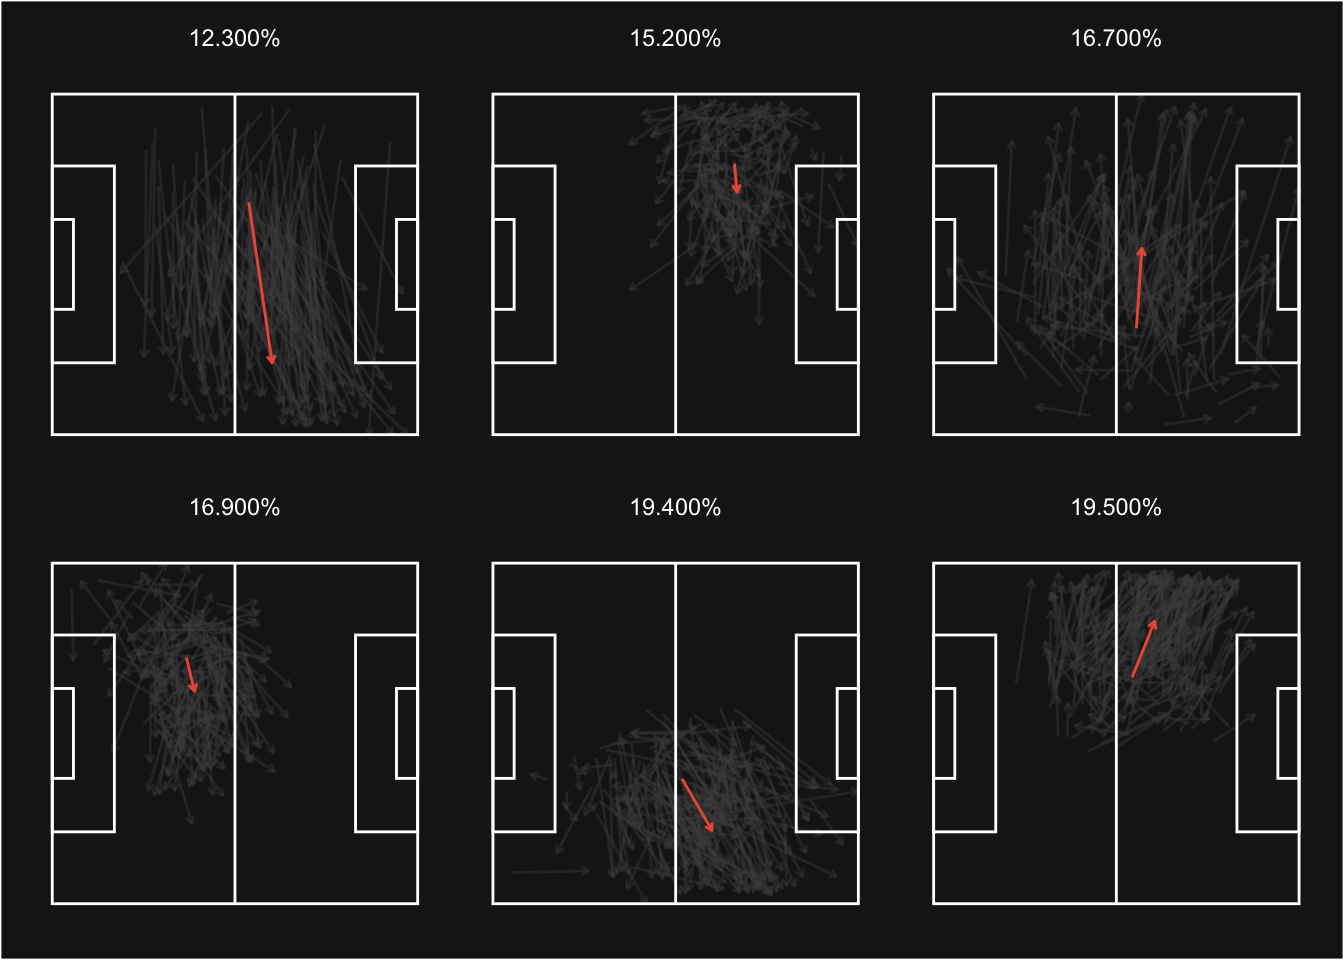
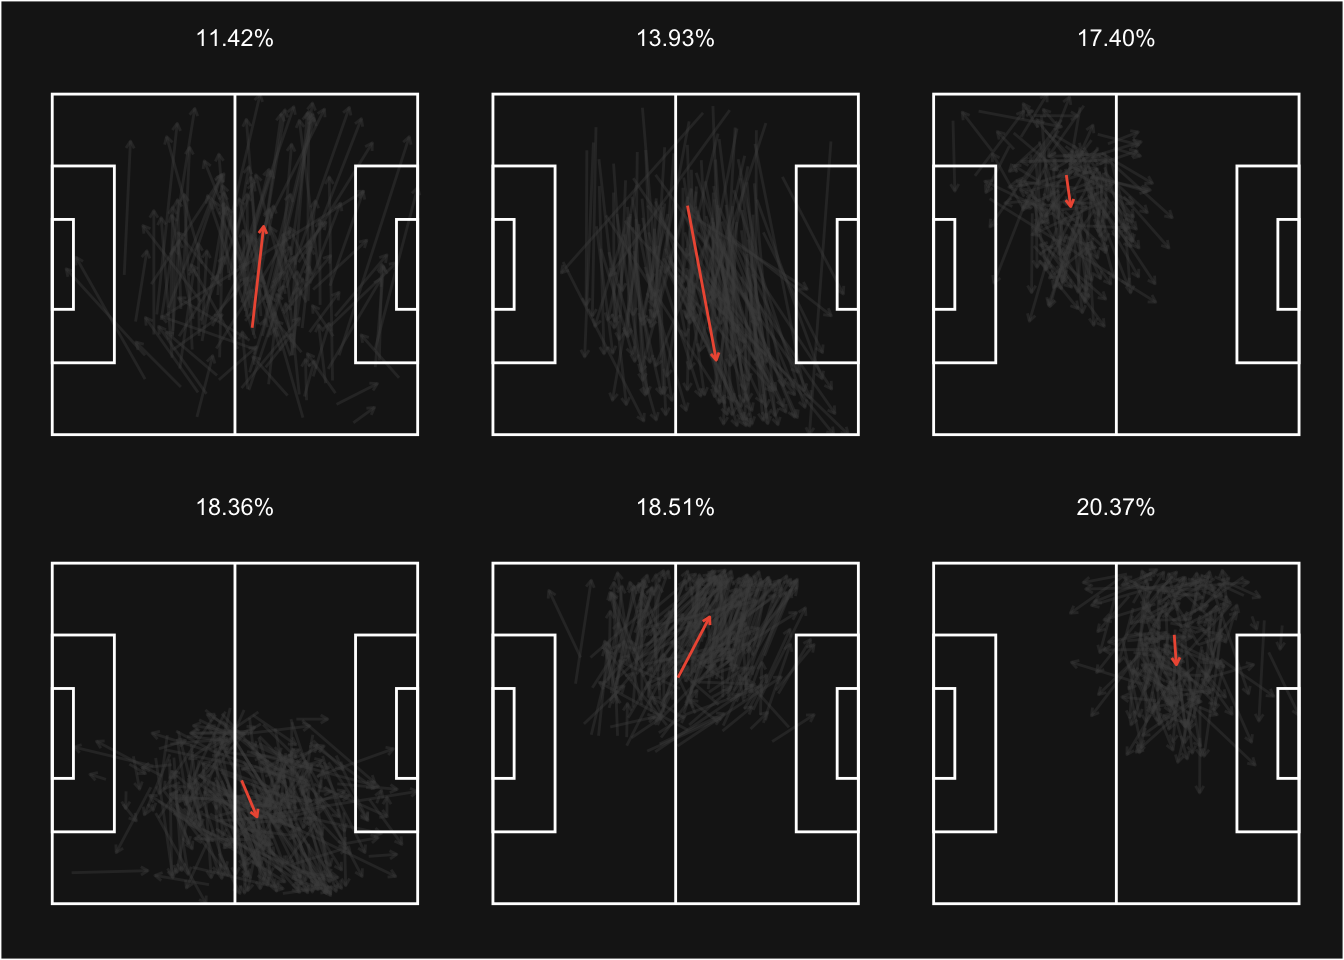
Update k-means chart commentary

diff --git a/public/portfolio/querpasstoni/index.html b/public/portfolio/querpasstoni/index.html
@@ -144,7 +144,7 @@ if (!doNotTrack) {
 <p>Die 78 Pässe wurden nun in fünf Kategorien eingeteilt und werden jeweils durch die gestrichelten, dickeren Pfeile repräsentiert. Wichtig ist, dass diese fünf Pfeile keine echten Pässe darstellen, sondern nur den Durchschnitt der Eigenschaften (Ursprung, Länge, Winkel) aller Pässe ihrer Kategorie.</p>
 <p>So können wir nun also eine größere Anzahl an Pässen gleichzeitig analysieren ohne den Überblick zu verlieren. Die folgende Grafik zeigt nun eine Analyse aller Toni Kroos Pässe der Saisons 2009/2010 bis jetzt (Liga und Champions League), eingeteilt in sechs Kategorien. Im Titel für jeden Plot findet ihr die Häufigkeit, mit der diese Pässe auftreten.</p>
 <p><img src="/portfolio/2020-06-18-querpasstoni_files/figure-html/K-Means%20Plot-1.png" width="672" /></p>
-<p>Am häufigsten sind kurze Pässe auf rechts oder links außen, gefolgt von drei Gruppen von Pässen in die Mitte. Die homogenste Gruppe ist allerdings die letzte (12.3% aller Pässe), die Seitenwechsel von links auf den rechten Flügel repräsentiert.</p>
+<p>Am häufigsten sind kurze Pässe auf rechts oder links außen, gefolgt von einer Gruppen von verschiedenen Pässen aus dem hinteren, linken Halbraum. Die homogenste Gruppe ist allerdings die vorletzte (ca. 14% aller Pässe), die Seitenwechsel von links auf den rechten Flügel repräsentiert.</p>
 <p>Wir werden dieses Muster noch häufiger in den nächsten Grafiken sehen.</p>
 <p><br></p>
 </div>

diff --git a/content/portfolio/2020-06-18-querpasstoni.html b/content/portfolio/2020-06-18-querpasstoni.html
@@ -42,7 +42,7 @@ showonlyimage: no
 <p>Die 78 Pässe wurden nun in fünf Kategorien eingeteilt und werden jeweils durch die gestrichelten, dickeren Pfeile repräsentiert. Wichtig ist, dass diese fünf Pfeile keine echten Pässe darstellen, sondern nur den Durchschnitt der Eigenschaften (Ursprung, Länge, Winkel) aller Pässe ihrer Kategorie.</p>
 <p>So können wir nun also eine größere Anzahl an Pässen gleichzeitig analysieren ohne den Überblick zu verlieren. Die folgende Grafik zeigt nun eine Analyse aller Toni Kroos Pässe der Saisons 2009/2010 bis jetzt (Liga und Champions League), eingeteilt in sechs Kategorien. Im Titel für jeden Plot findet ihr die Häufigkeit, mit der diese Pässe auftreten.</p>
 <p><img src="/portfolio/2020-06-18-querpasstoni_files/figure-html/K-Means%20Plot-1.png" width="672" /></p>
-<p>Am häufigsten sind kurze Pässe auf rechts oder links außen, gefolgt von drei Gruppen von Pässen in die Mitte. Die homogenste Gruppe ist allerdings die letzte (12.3% aller Pässe), die Seitenwechsel von links auf den rechten Flügel repräsentiert.</p>
+<p>Am häufigsten sind kurze Pässe auf rechts oder links außen, gefolgt von einer Gruppen von verschiedenen Pässen aus dem hinteren, linken Halbraum. Die homogenste Gruppe ist allerdings die vorletzte (ca. 14% aller Pässe), die Seitenwechsel von links auf den rechten Flügel repräsentiert.</p>
 <p>Wir werden dieses Muster noch häufiger in den nächsten Grafiken sehen.</p>
 <p><br></p>
 </div>
